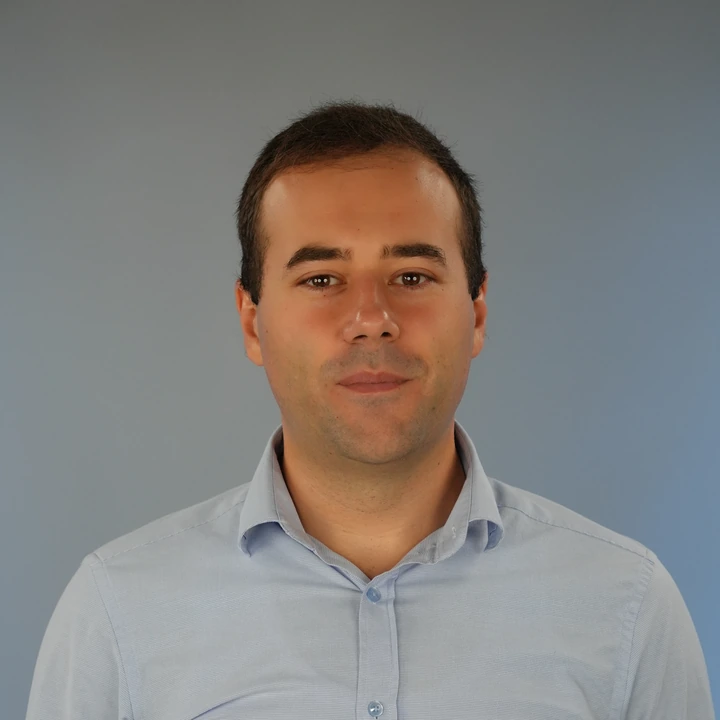
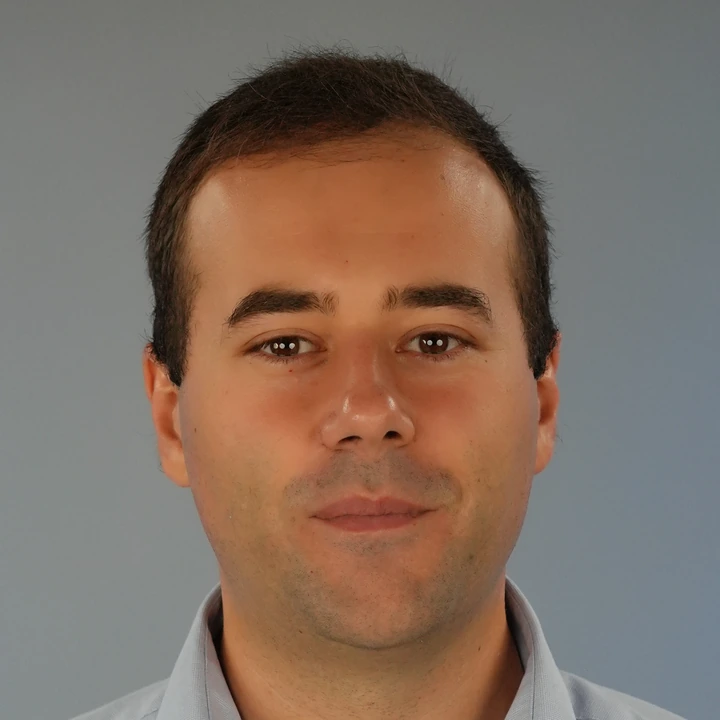
Снимки на водещите: ръчно изрязаните кадри от content
Взети са miro.webp, misho.webp и stoyan.webp без промяна на кадъра; смалени до
най-много 720 px и записани като WebP q92.

diff --git a/tests/e2e.spec.js b/tests/e2e.spec.js
@@ -36,7 +36,7 @@ test('public site loads with the season data and no console errors', async ({ pa
   await expect(hosts.nth(1)).toContainText('Стоян Петков');
   await expect(hosts.nth(2)).toContainText('Михаил Гърков');
   await page.locator('.host').first().scrollIntoViewIfNeeded();
-  await expect.poll(() => page.locator('.host img.ava-img').evaluateAll((is) => is.map((i) => i.complete && i.naturalWidth))).toEqual([720, 606, 720]);
+  await expect.poll(() => page.locator('.host img.ava-img').evaluateAll((is) => is.map((i) => i.complete && i.naturalWidth))).toEqual([720, 600, 720]);
   await expect(page.locator('#r-who')).toHaveCount(0);
   await page.locator('.hosts').screenshot({ path: `${SHOTS}/desktop-hosts.png` });
   await page.evaluate(() => window.scrollTo(0, 0));
